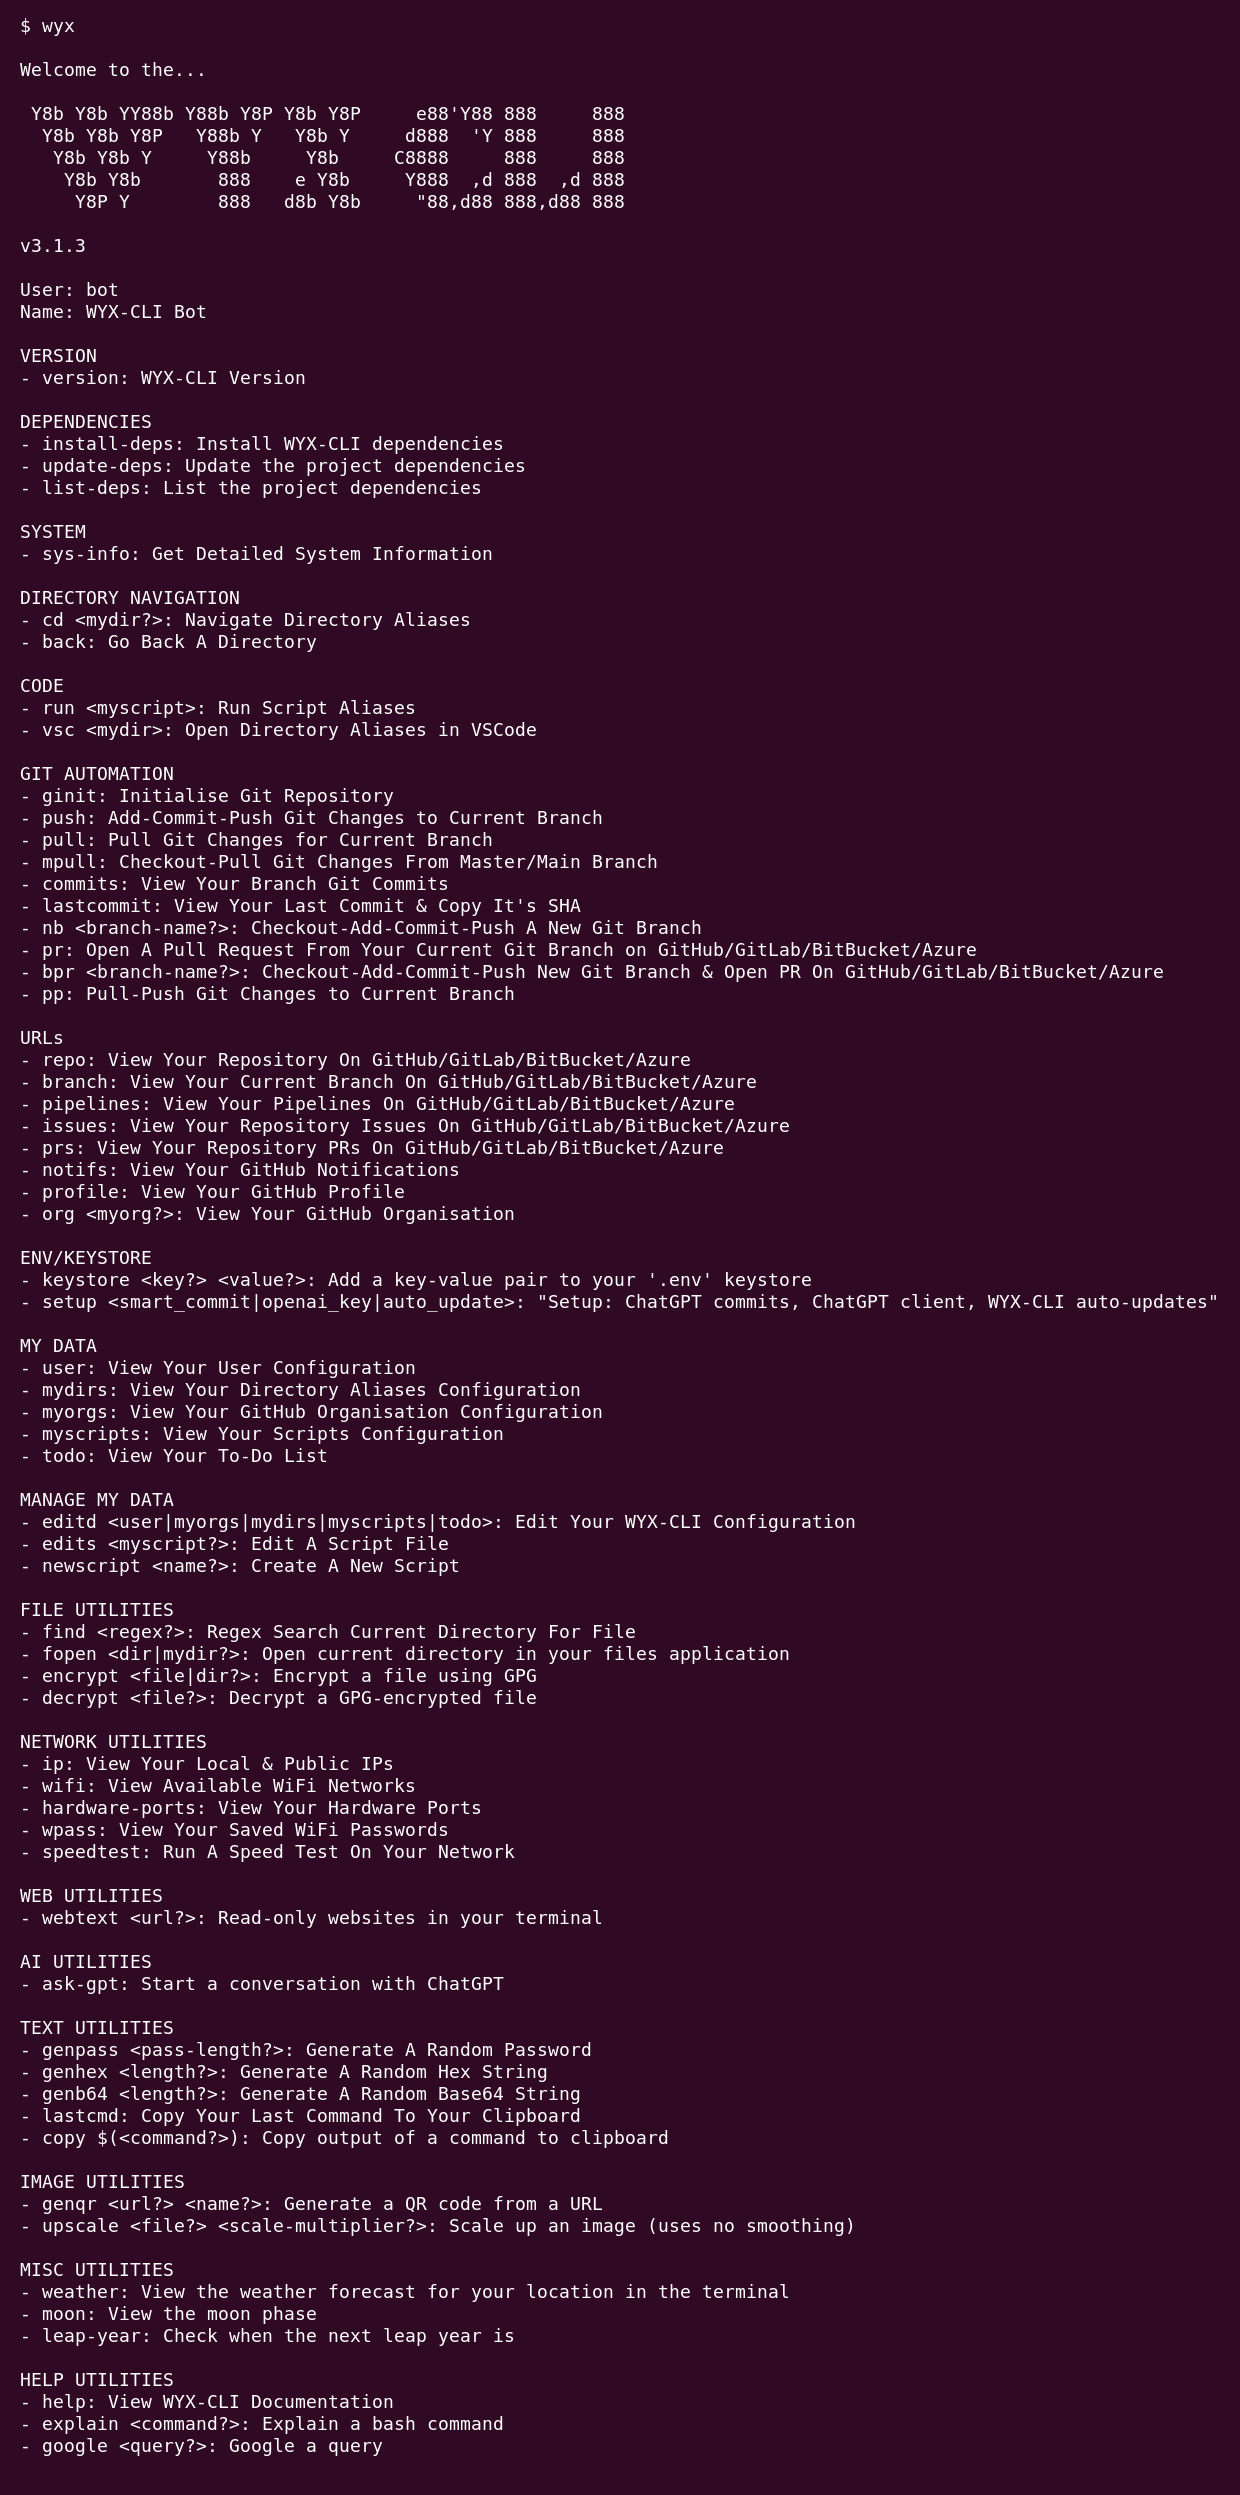
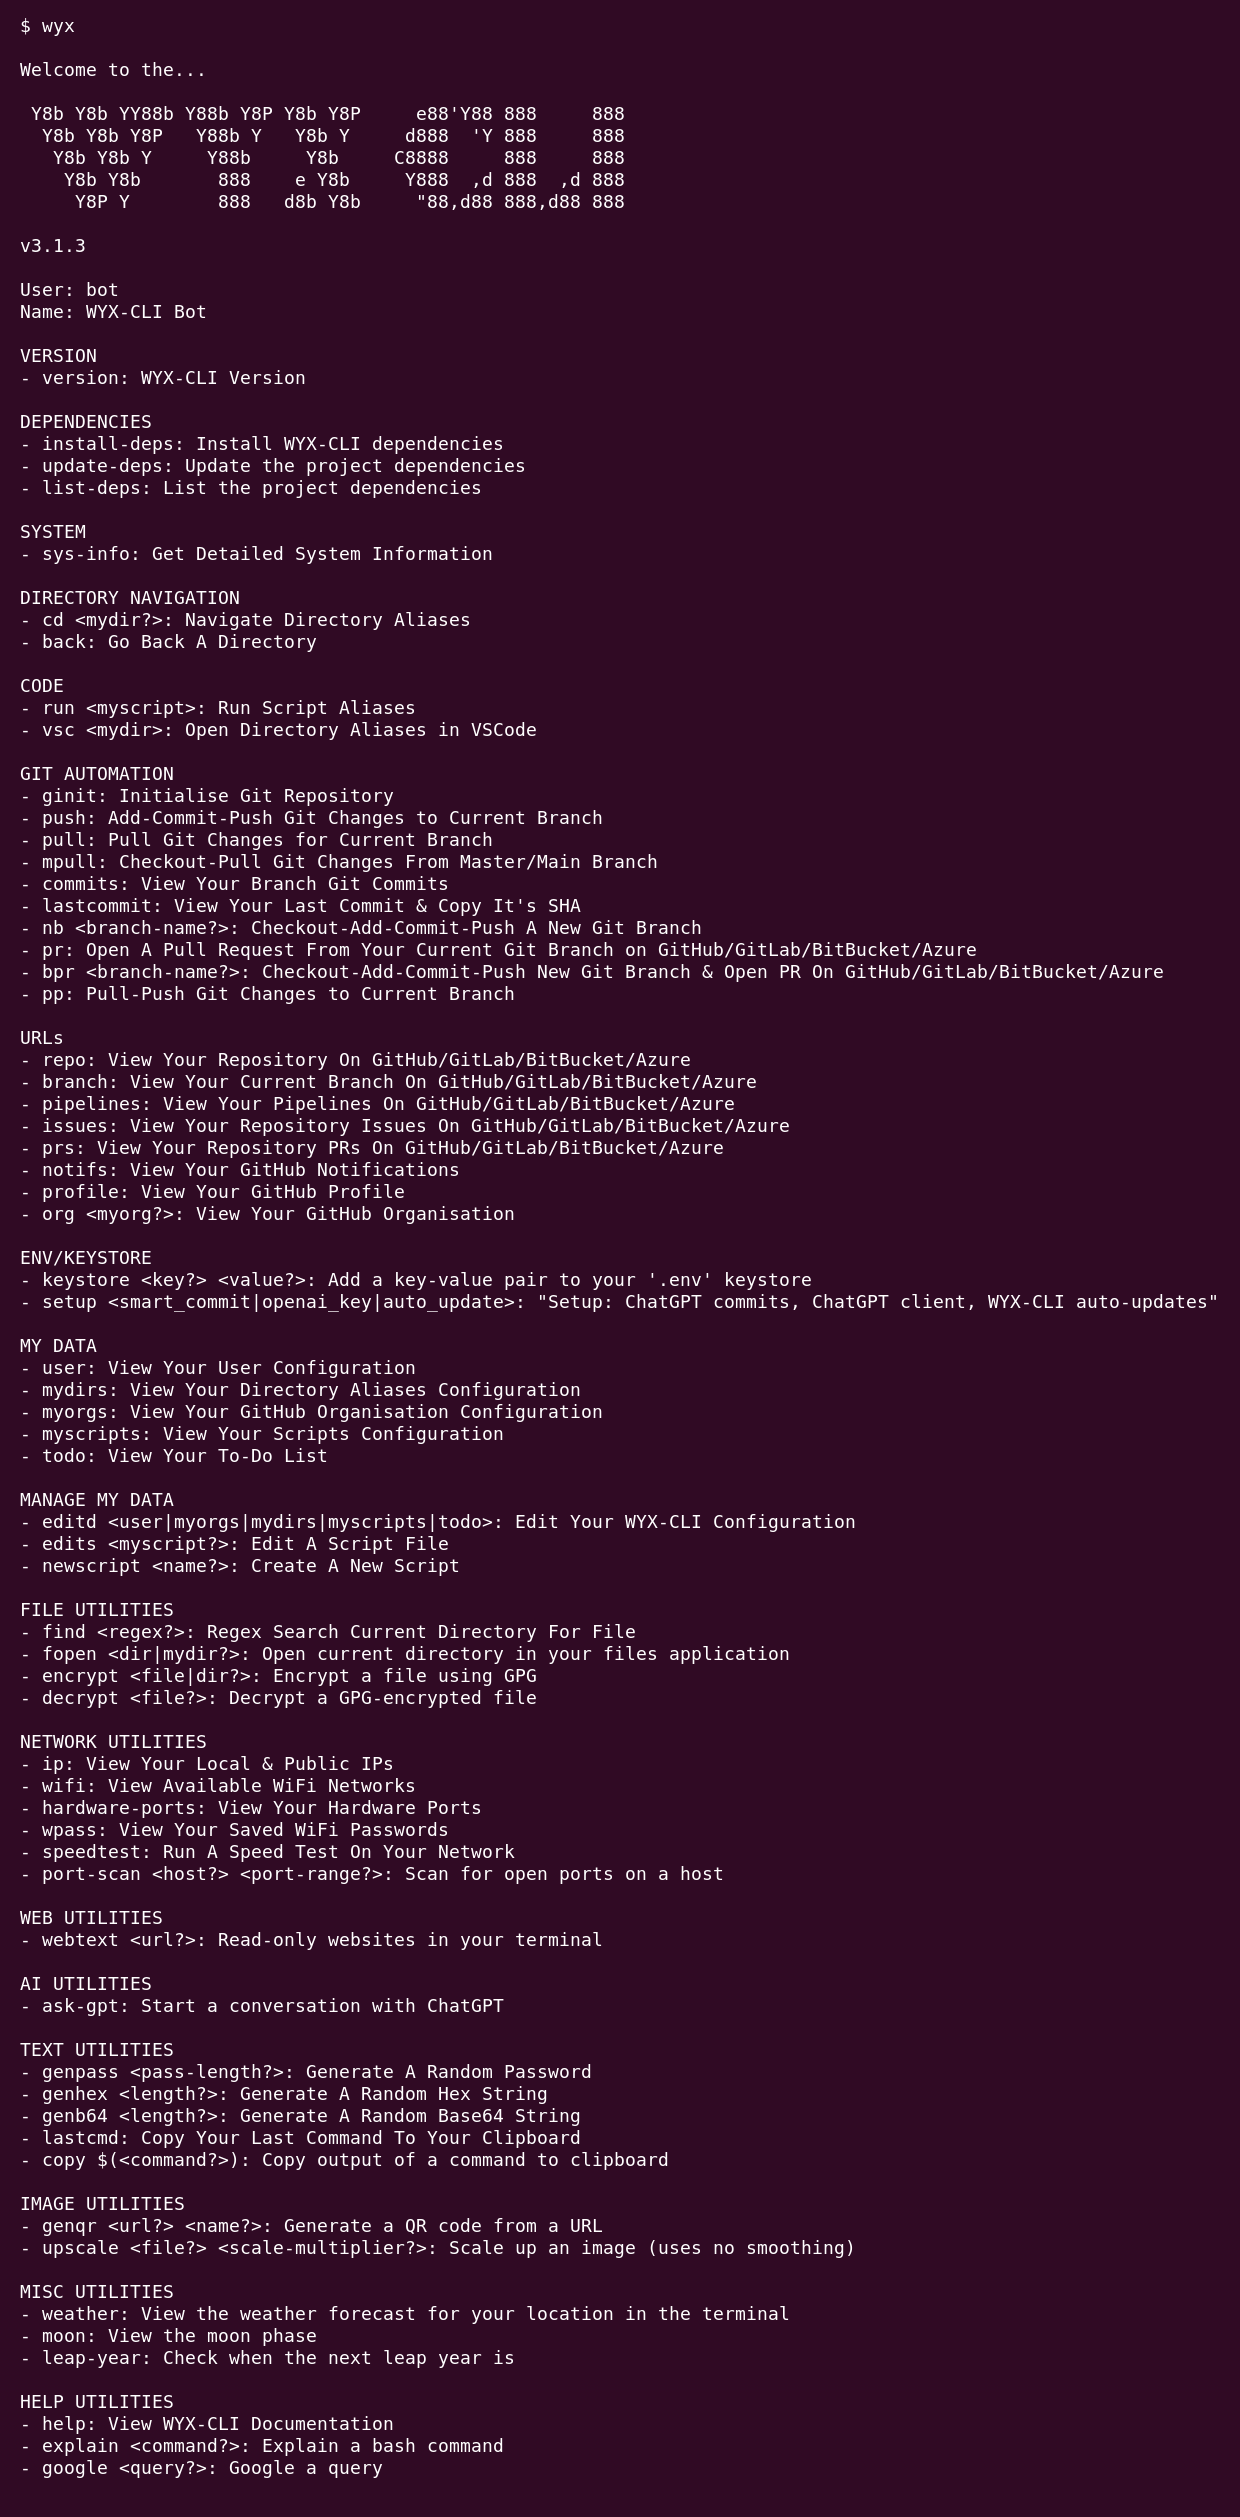
GH-Action: auto-update README & cache files

diff --git a/.github/README.md b/.github/README.md
@@ -181,6 +181,7 @@ wyx list-deps
 - `hardware-ports`: View Your Hardware Ports
 - `wpass`: View Your Saved WiFi Passwords
 - `speedtest`: Run A Speed Test On Your Network
+- `port-scan <host?> <port-range?>`: Scan for open ports on a host
 
 ### WEB UTILITIES 🌐
 - `webtext <url?>`: Read-only websites in your terminal
